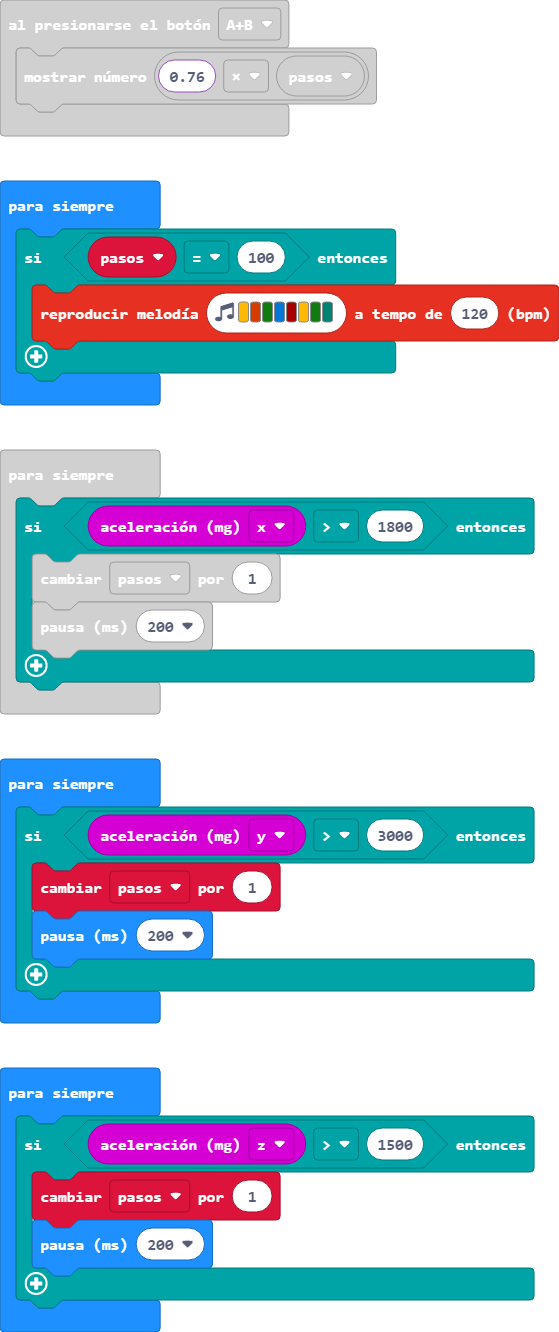
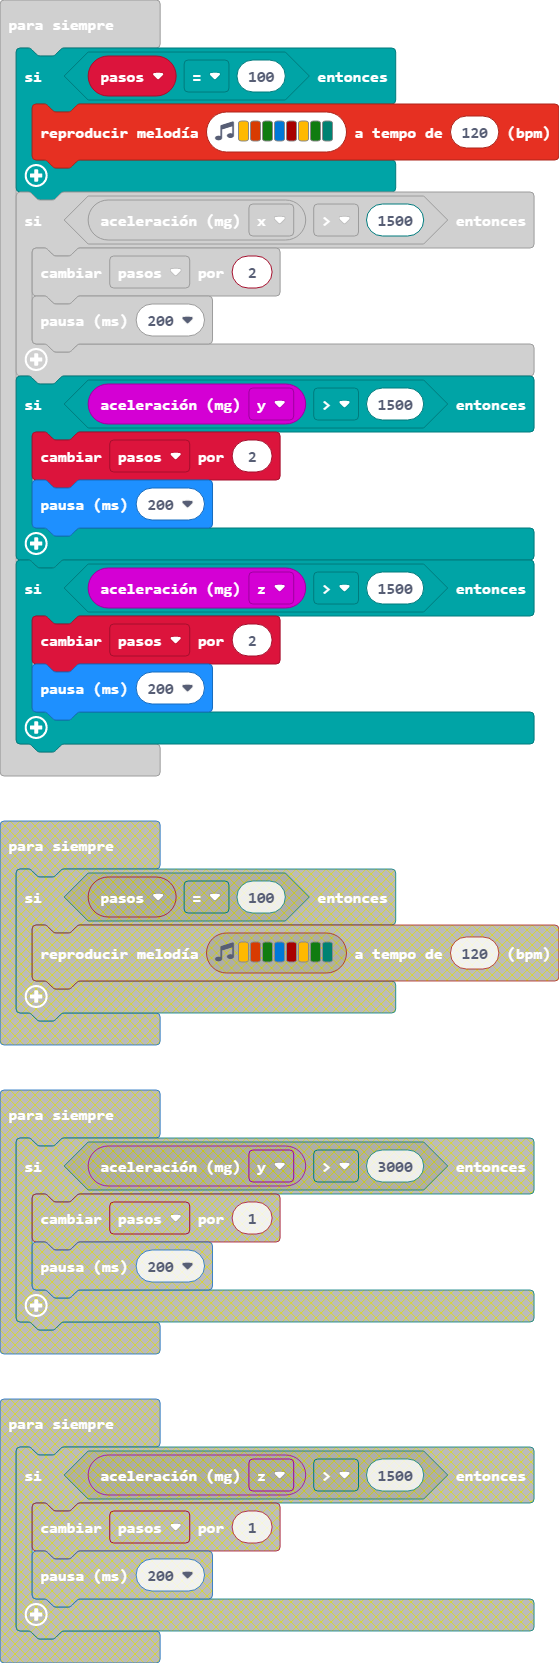
Actualizar main.blocks, main.ts

diff --git a/main.ts b/main.ts
@@ -16,22 +16,16 @@ basic.forever(function () {
     if (pasos == 100) {
         music.playMelody("A B G E C5 A G F ", 120)
     }
-})
-basic.forever(function () {
-    if (input.acceleration(Dimension.X) > 1800) {
-        pasos += 1
+    if (input.acceleration(Dimension.X) > 1500) {
+        pasos += 2
         basic.pause(200)
     }
-})
-basic.forever(function () {
-    if (input.acceleration(Dimension.Y) > 3000) {
-        pasos += 1
+    if (input.acceleration(Dimension.Y) > 1500) {
+        pasos += 2
         basic.pause(200)
     }
-})
-basic.forever(function () {
     if (input.acceleration(Dimension.Z) > 1500) {
-        pasos += 1
+        pasos += 2
         basic.pause(200)
     }
 })
